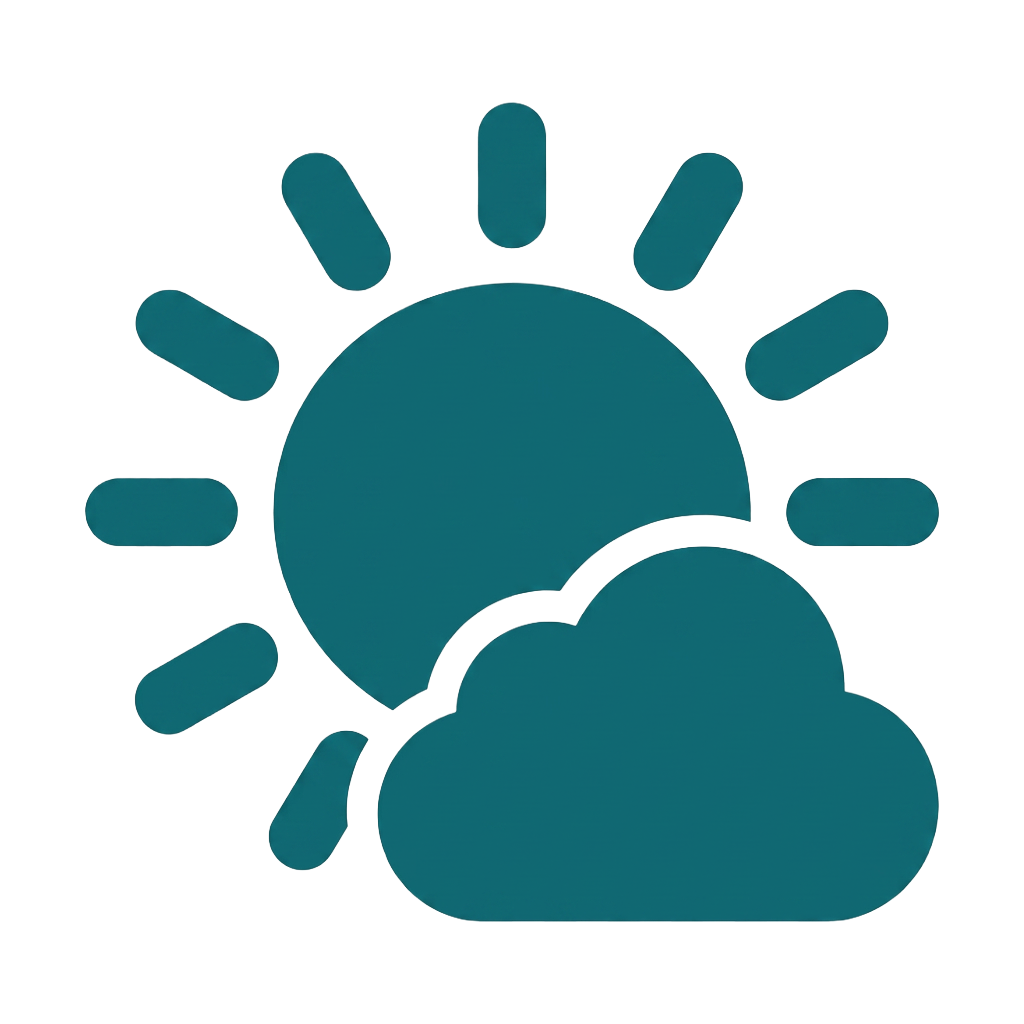
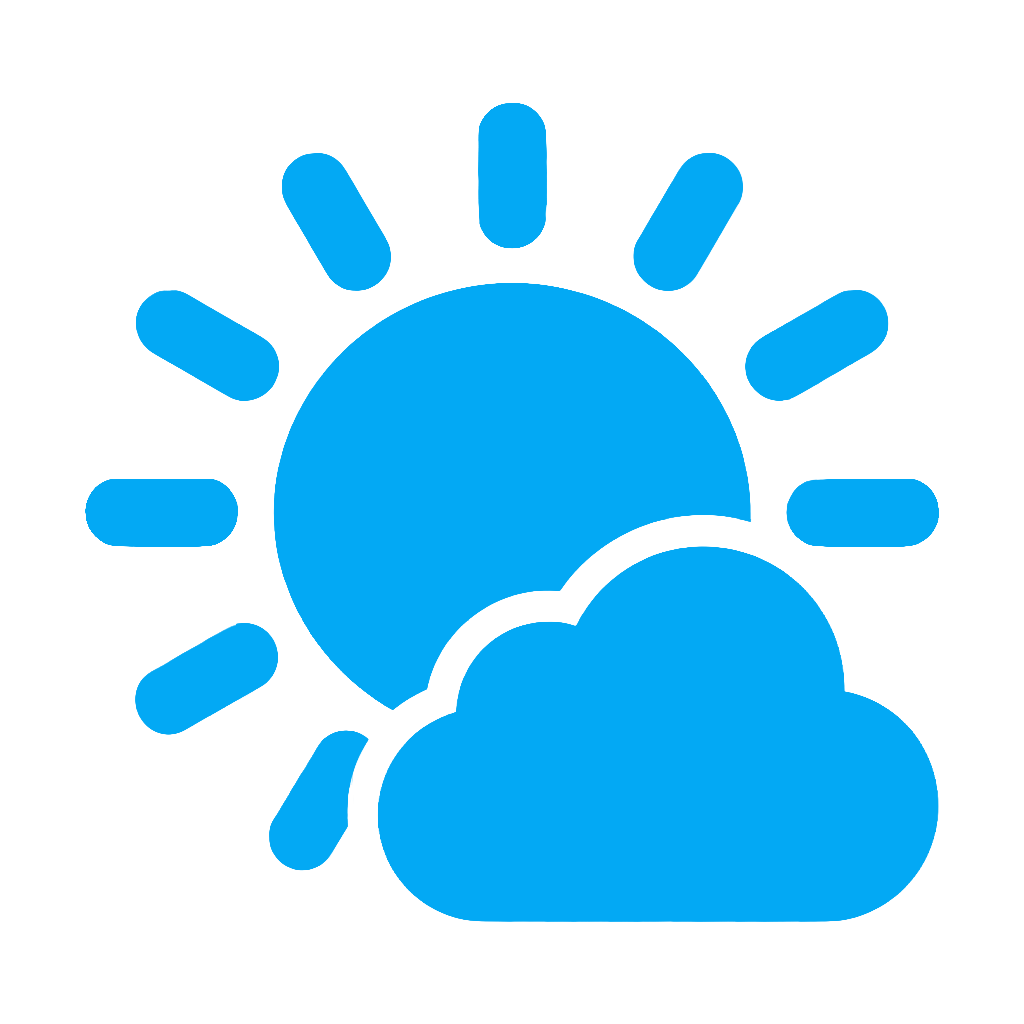
v0.4.1: Hacs.json hinzugefügt & ungenutzte Bilddateien entfernt
- hacs.json im Repository-Root für korrekte HACS-Erkennung erstellt
- Ungenutzte Bilddateien (logo.png, dark_logo.png im Integration-Root, logo.svg) entfernt
- Nur brand/ Ordner wird für Icons verwendet

diff --git a/CHANGELOG.md b/CHANGELOG.md
@@ -2,6 +2,14 @@
 
 Alle signifikanten Änderungen an dieser Integration werden hier festgehalten.
 
+## [0.4.1] - 2026-07-17
+### Hinzugefügt
+- `hacs.json` im Repository-Root für korrekte HACS-Erkennung hinzugefügt.
+
+### Entfernt
+- Ungenutzte Bilddateien `logo.png` und `dark_logo.png` aus dem Integration-Root entfernt (nur `brand/` wird verwendet).
+- Ungenutzte `logo.svg` aus dem Repository-Root entfernt.
+
 ## [0.4.0] - 2026-07-17
 ### Geändert
 - Forecast-Implementierung auf `async_forecast_daily()` umgestellt (deprecated `forecast` Property entfernt).